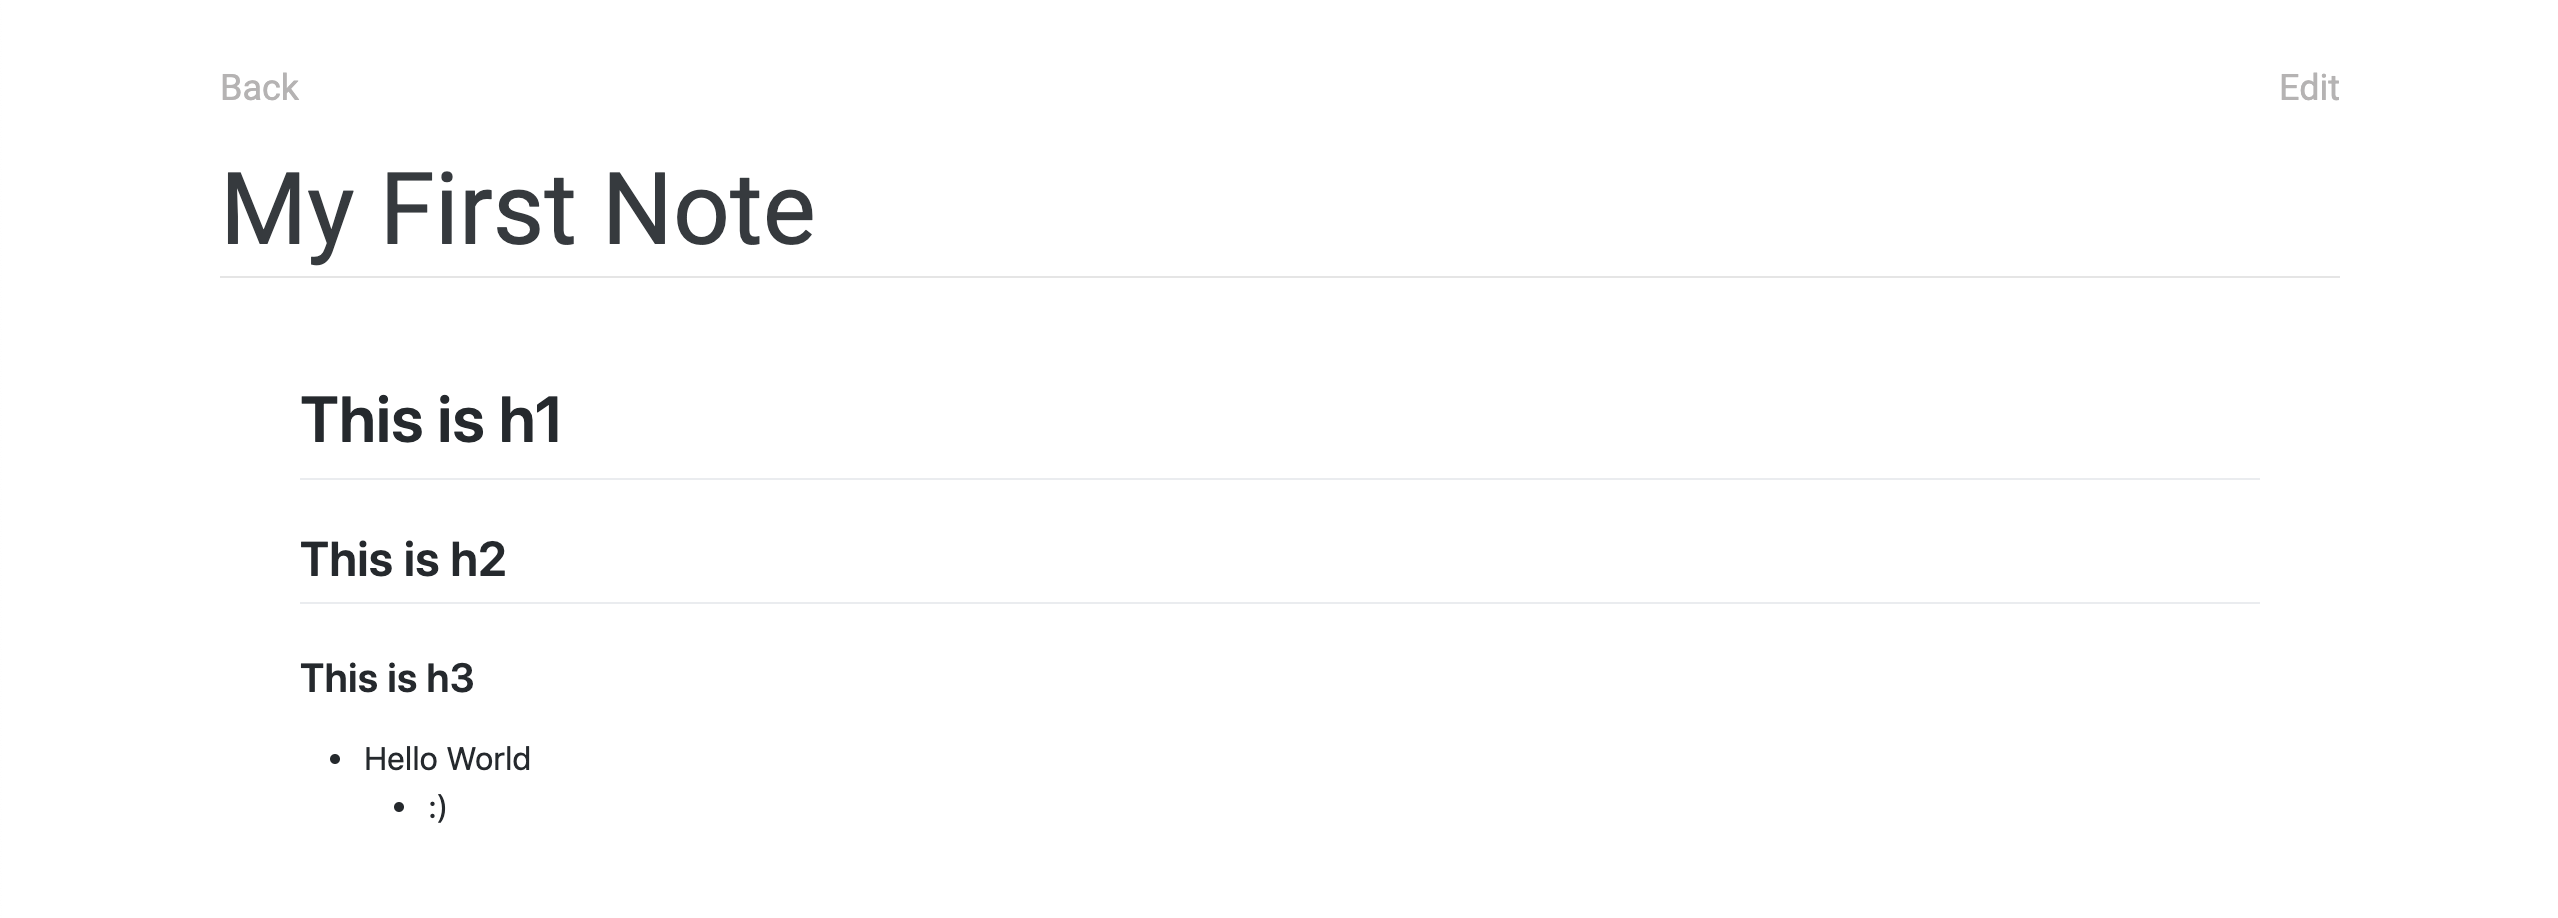
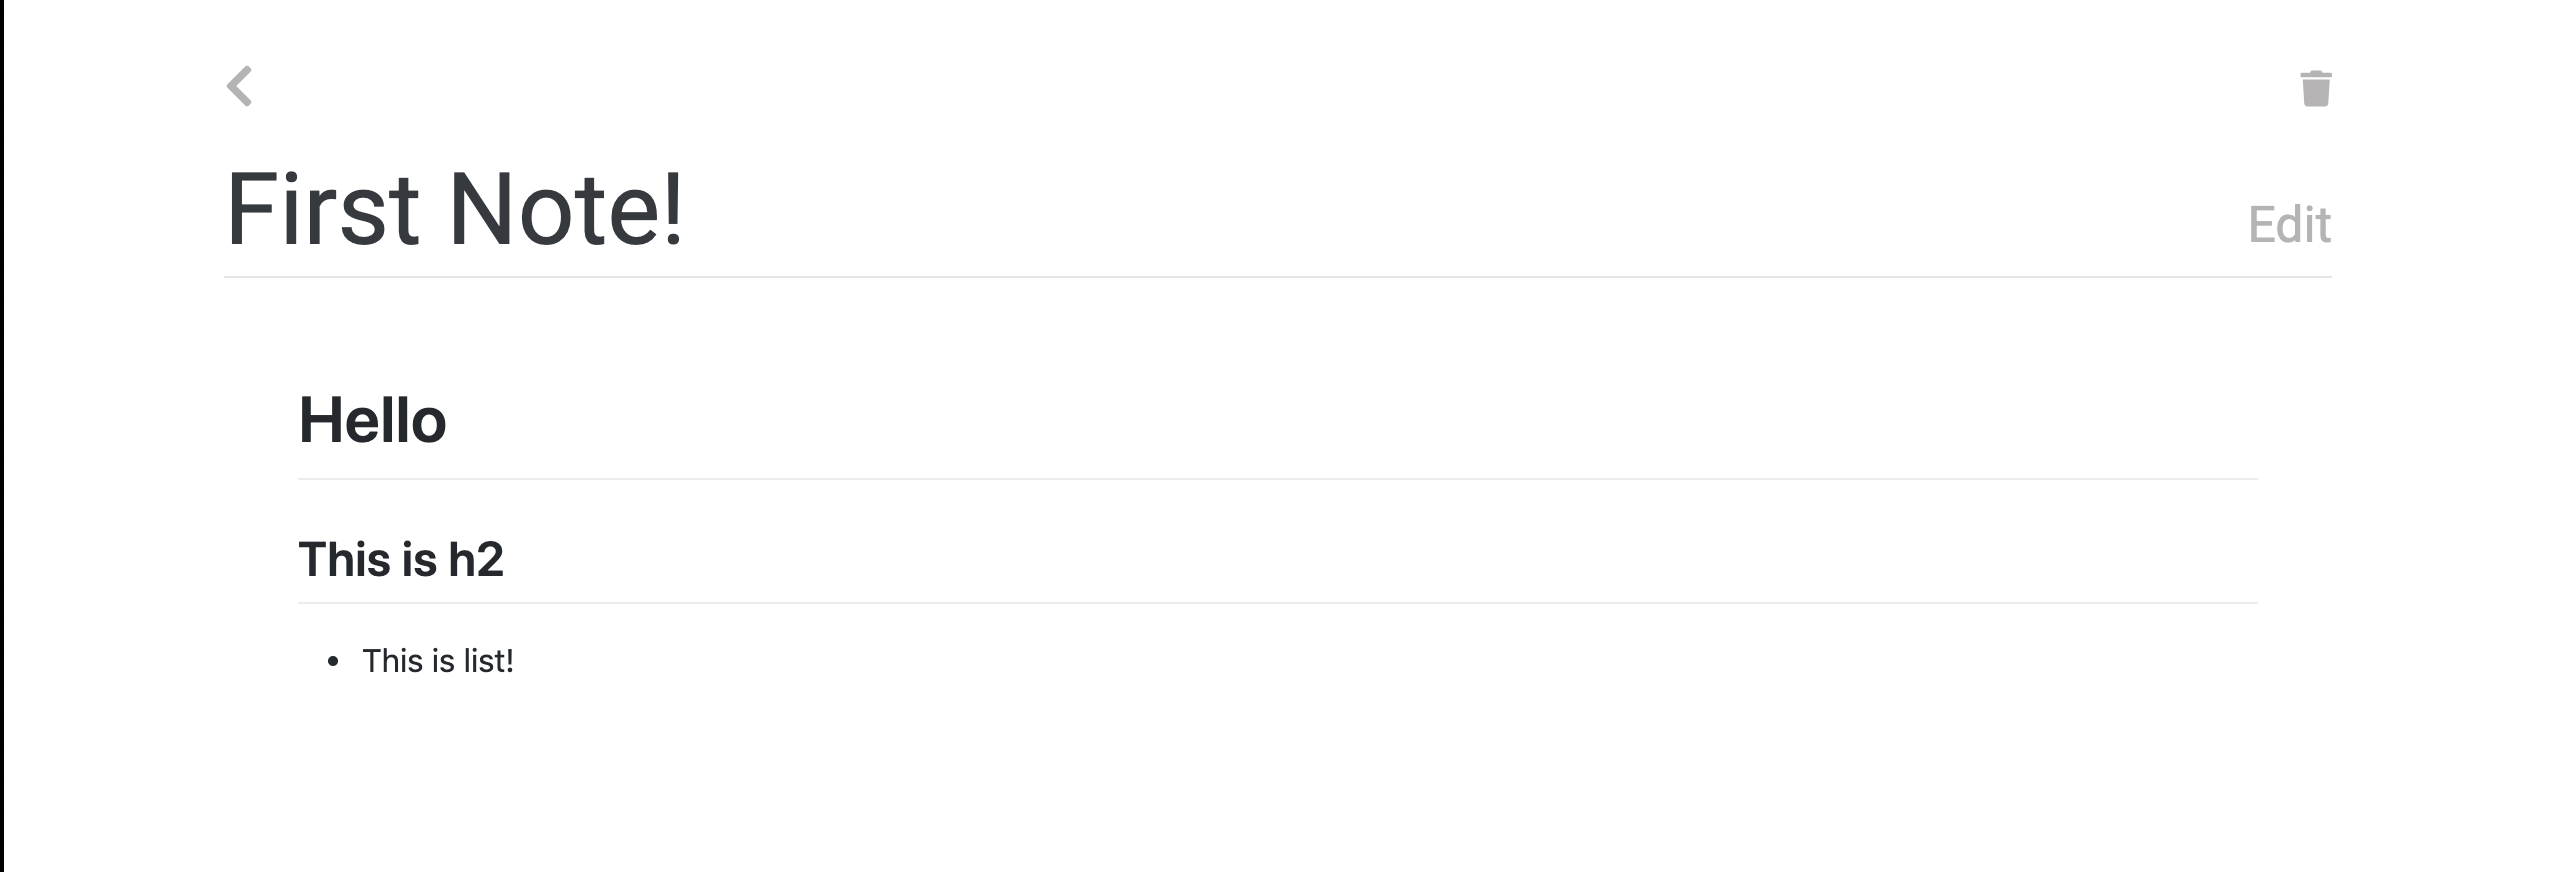
mod - screenshots

diff --git a/src/components/NoteEditor.js b/src/components/NoteEditor.js
@@ -50,7 +50,7 @@ const NoteEditor = ({
                     <ContentInput
                         value={contentVal}
                         onChange={e => setContentVal(e.target.value)}
-                        placeholder="..."
+                        placeholder="Markdown..."
                         name="content"
                         show={editView ? 1 : 0}
                     />

diff --git a/src/containers/NoteContainer.js b/src/containers/NoteContainer.js
@@ -34,7 +34,7 @@ const NotesContainer = ({ data: { note }, history }) => {
                             }}
                             red
                         >
-                            Delete
+                            <i class="fas fa-trash fa-xl" />
                         </GrayButton>
                     );
                 }}
